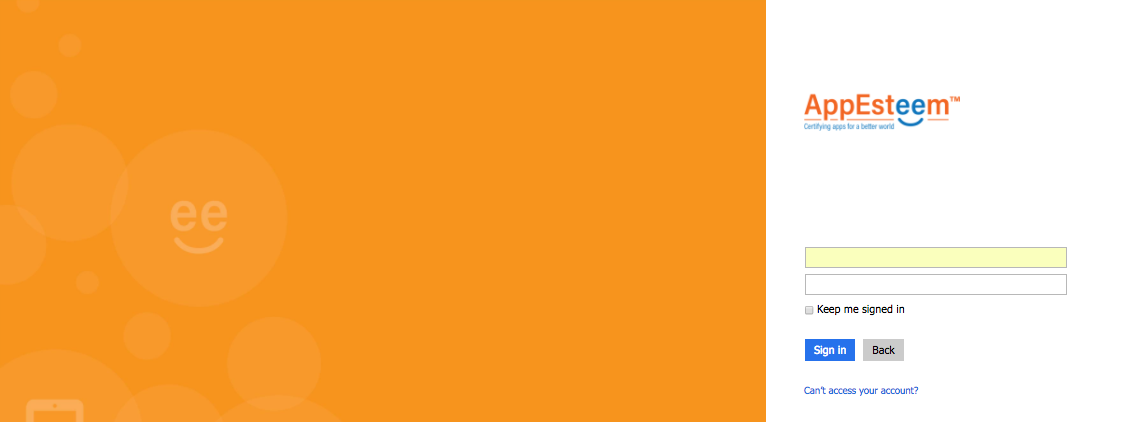
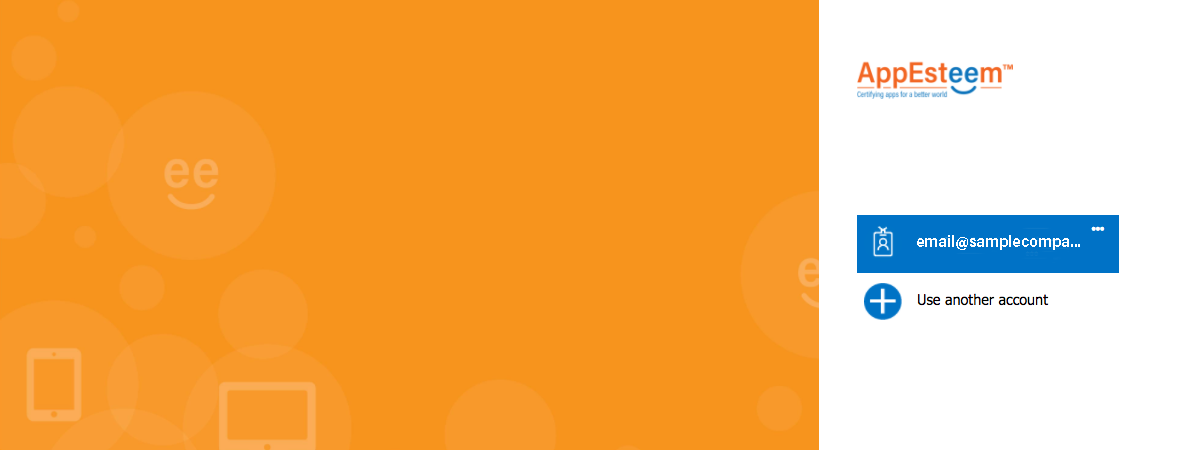
Replace sign-in image, modify sign-in text to make instruction more clear for user

diff --git a/managed/managedsample.md b/managed/managedsample.md
@@ -10,7 +10,7 @@ _**Obtaining Seal from AppEsteem**_
 
 ![GitHub Logo](../media/createAccount_1.png)
 
-* If you already have an AppEsteem account, click the Sign In button and sign in with your email and password.
+* If you already have an AppEsteem account, click the Sign In button and sign in with email and password you used to register with AppEsteem.
 
 ![GitHub Logo](../media/createAccount_2.png)
 
@@ -29,11 +29,10 @@ _**Obtaining Seal from AppEsteem**_
 
     ![GitHub Logo](../media/createAccount_5.png)
 
-* Sign in with your email and password
-
-    ![GitHub Logo](../media/createAccount_6.png)
-
-
+* Sign in with email and password you used to register with AppEsteem    
+    <p>
+        <img src="../media/createAccount_6.png" style="border:2px solid #e5e5e5">
+    </p>
 2) Register your company (you only need to do it once) :
 * Click the REGISTER button on the "You do not have any Company registered" banner. 
 
